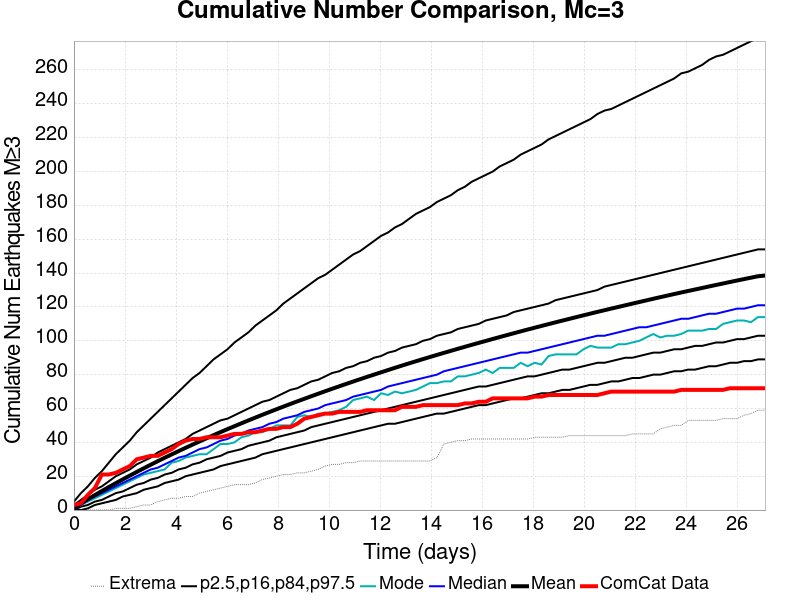
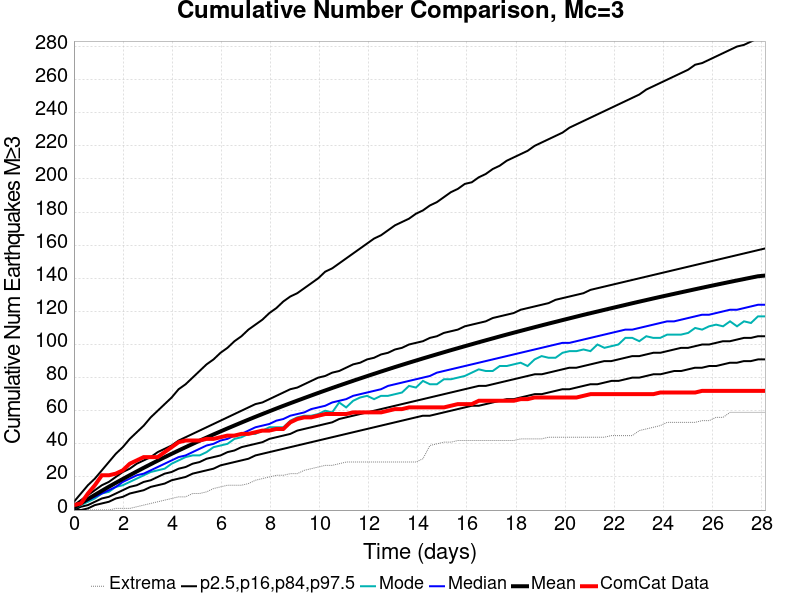
automatic plot and index update from opensha.usc.edu

diff --git a/2019_07_16-ComCatM7p1_ci38457511_11DaysAfter_ShakeMapSurfaces-noSpont-full_td-scale1.14/index.html b/2019_07_16-ComCatM7p1_ci38457511_11DaysAfter_ShakeMapSurfaces-noSpont-full_td-scale1.14/index.html
@@ -761,15 +761,15 @@ img {
 <p><em><a href="#table-of-contents">(top)</a></em></p>
 <table>
 <thead>
-<tr><th></th><th>1 Day</th><th>1 Week</th><th>27.1 Day</th></tr>
+<tr><th></th><th>1 Day</th><th>1 Week</th><th>4 Week</th></tr>
 </thead>
 <tbody>
-<tr><td><strong>M≥3</strong></td><td><img src="plots/comcat_compare_mean_1d_m3.png" alt="Map" /></td><td><img src="plots/comcat_compare_mean_1wk_m3.png" alt="Map" /></td><td><img src="plots/comcat_compare_mean_27.1d_m3.png" alt="Map" /></td></tr>
-<tr><td><strong>M≥4</strong></td><td><img src="plots/comcat_compare_mean_1d_m4.png" alt="Map" /></td><td><img src="plots/comcat_compare_mean_1wk_m4.png" alt="Map" /></td><td><img src="plots/comcat_compare_mean_27.1d_m4.png" alt="Map" /></td></tr>
-<tr><td><strong>M≥5</strong></td><td><img src="plots/comcat_compare_mean_1d_m5.png" alt="Map" /></td><td><img src="plots/comcat_compare_mean_1wk_m5.png" alt="Map" /></td><td><img src="plots/comcat_compare_mean_27.1d_m5.png" alt="Map" /></td></tr>
-<tr><td><strong>M≥6</strong></td><td><img src="plots/comcat_compare_mean_1d_m6.png" alt="Map" /></td><td><img src="plots/comcat_compare_mean_1wk_m6.png" alt="Map" /></td><td><img src="plots/comcat_compare_mean_27.1d_m6.png" alt="Map" /></td></tr>
-<tr><td><strong>M≥7</strong></td><td><img src="plots/comcat_compare_mean_1d_m7.png" alt="Map" /></td><td><img src="plots/comcat_compare_mean_1wk_m7.png" alt="Map" /></td><td><img src="plots/comcat_compare_mean_27.1d_m7.png" alt="Map" /></td></tr>
-<tr><td><strong>M≥8</strong></td><td><img src="plots/comcat_compare_mean_1d_m8.png" alt="Map" /></td><td><img src="plots/comcat_compare_mean_1wk_m8.png" alt="Map" /></td><td><img src="plots/comcat_compare_mean_27.1d_m8.png" alt="Map" /></td></tr>
+<tr><td><strong>M≥3</strong></td><td><img src="plots/comcat_compare_mean_1d_m3.png" alt="Map" /></td><td><img src="plots/comcat_compare_mean_1wk_m3.png" alt="Map" /></td><td><img src="plots/comcat_compare_mean_4wk_m3.png" alt="Map" /></td></tr>
+<tr><td><strong>M≥4</strong></td><td><img src="plots/comcat_compare_mean_1d_m4.png" alt="Map" /></td><td><img src="plots/comcat_compare_mean_1wk_m4.png" alt="Map" /></td><td><img src="plots/comcat_compare_mean_4wk_m4.png" alt="Map" /></td></tr>
+<tr><td><strong>M≥5</strong></td><td><img src="plots/comcat_compare_mean_1d_m5.png" alt="Map" /></td><td><img src="plots/comcat_compare_mean_1wk_m5.png" alt="Map" /></td><td><img src="plots/comcat_compare_mean_4wk_m5.png" alt="Map" /></td></tr>
+<tr><td><strong>M≥6</strong></td><td><img src="plots/comcat_compare_mean_1d_m6.png" alt="Map" /></td><td><img src="plots/comcat_compare_mean_1wk_m6.png" alt="Map" /></td><td><img src="plots/comcat_compare_mean_4wk_m6.png" alt="Map" /></td></tr>
+<tr><td><strong>M≥7</strong></td><td><img src="plots/comcat_compare_mean_1d_m7.png" alt="Map" /></td><td><img src="plots/comcat_compare_mean_1wk_m7.png" alt="Map" /></td><td><img src="plots/comcat_compare_mean_4wk_m7.png" alt="Map" /></td></tr>
+<tr><td><strong>M≥8</strong></td><td><img src="plots/comcat_compare_mean_1d_m8.png" alt="Map" /></td><td><img src="plots/comcat_compare_mean_1wk_m8.png" alt="Map" /></td><td><img src="plots/comcat_compare_mean_4wk_m8.png" alt="Map" /></td></tr>
 </tbody>
 </table>
 <h3 id="comcat-depth-distribution">ComCat Depth Distribution</h3>

diff --git a/index.html b/index.html
@@ -30,7 +30,7 @@ img {
 <tr><td>2019/07/27</td><td><a href="2019_07_27-ComCatM7p1_ci38457511_21DaysAfter_ShakeMapSurfaces-noSpont-full_td-scale1.14/index.html">ComCat M7.1 (ci38457511), 21 Days After, ShakeMap Surfaces</a></td><td>2019/07/26</td><td>100000</td><td>Done</td><td>2019/08/13</td></tr>
 <tr><td>2019/07/25</td><td><a href="2019_07_25-ComCatM7p1_ci38457511_19p6DaysAfter_ShakeMapSurfaces-noSpont-full_td-scale1.14/index.html">ComCat M7.1 (ci38457511), 19.6 Days After, ShakeMap Surfaces</a></td><td>2019/07/25</td><td>100000</td><td>Done</td><td>2019/08/13</td></tr>
 <tr><td>2019/07/18</td><td><a href="2019_07_18-ComCatM7p1_ci38457511_InvertedSurface_ShakeMapSurface-noSpont-full_td-scale1.14/index.html">ComCat M7.1 (ci38457511), Inverted Surface, ShakeMap Surface</a></td><td>2019/07/05</td><td>100000</td><td>Done</td><td>2019/08/12</td></tr>
-<tr><td>2019/07/16</td><td><a href="2019_07_16-ComCatM7p1_ci38457511_11DaysAfter_ShakeMapSurfaces-noSpont-full_td-scale1.14/index.html">ComCat M7.1 (ci38457511), 11 Days After, ShakeMap Surfaces</a></td><td>2019/07/16</td><td>100000</td><td>Done</td><td>2019/08/12</td></tr>
+<tr><td>2019/07/16</td><td><a href="2019_07_16-ComCatM7p1_ci38457511_11DaysAfter_ShakeMapSurfaces-noSpont-full_td-scale1.14/index.html">ComCat M7.1 (ci38457511), 11 Days After, ShakeMap Surfaces</a></td><td>2019/07/16</td><td>100000</td><td>Done</td><td>2019/08/13</td></tr>
 <tr><td>2019/07/16</td><td><a href="2019_07_16-ComCatM7p1_ci38457511_7DaysAfter_ShakeMapSurfaces-noSpont-full_td-scale1.14/index.html">ComCat M7.1 (ci38457511), 7 Days After, ShakeMap Surfaces</a></td><td>2019/07/12</td><td>100000</td><td>Done</td><td>2019/08/11</td></tr>
 <tr><td>2019/07/16</td><td><a href="2019_07_16-ComCatM7p1_ci38457511_ShakeMapSurfaces-noSpont-full_td-scale1.14/index.html">ComCat M7.1 (ci38457511), ShakeMap Surfaces</a></td><td>2019/07/05</td><td>100000</td><td>Done</td><td>2019/08/12</td></tr>
 <tr><td>2019/07/12</td><td><a href="2019_07_12-ComCatM7p1_ci38457511_7DaysAfter_FiniteSurface-noSpont-full_td-scale1.14/index.html">ComCat M7.1 (ci38457511), 7 Days After, Finite Surface</a></td><td>2019/07/12</td><td>100000</td><td>Done</td><td>2019/08/11</td></tr>

diff --git a/2019_07_16-ComCatM7p1_ci38457511_11DaysAfter_ShakeMapSurfaces-noSpont-full_td-scale1.14/README.md b/2019_07_16-ComCatM7p1_ci38457511_11DaysAfter_ShakeMapSurfaces-noSpont-full_td-scale1.14/README.md
@@ -703,14 +703,14 @@ These plots compare simulated sequences with data from ComCat. All plots only co
 ### ComCat Mean Spatial Distribution
 *[(top)](#table-of-contents)*
 
-|  | 1 Day | 1 Week | 27.1 Day |
+|  | 1 Day | 1 Week | 4 Week |
 |-----|-----|-----|-----|
-| **M≥3** | ![Map](plots/comcat_compare_mean_1d_m3.png) | ![Map](plots/comcat_compare_mean_1wk_m3.png) | ![Map](plots/comcat_compare_mean_27.1d_m3.png) |
-| **M≥4** | ![Map](plots/comcat_compare_mean_1d_m4.png) | ![Map](plots/comcat_compare_mean_1wk_m4.png) | ![Map](plots/comcat_compare_mean_27.1d_m4.png) |
-| **M≥5** | ![Map](plots/comcat_compare_mean_1d_m5.png) | ![Map](plots/comcat_compare_mean_1wk_m5.png) | ![Map](plots/comcat_compare_mean_27.1d_m5.png) |
-| **M≥6** | ![Map](plots/comcat_compare_mean_1d_m6.png) | ![Map](plots/comcat_compare_mean_1wk_m6.png) | ![Map](plots/comcat_compare_mean_27.1d_m6.png) |
-| **M≥7** | ![Map](plots/comcat_compare_mean_1d_m7.png) | ![Map](plots/comcat_compare_mean_1wk_m7.png) | ![Map](plots/comcat_compare_mean_27.1d_m7.png) |
-| **M≥8** | ![Map](plots/comcat_compare_mean_1d_m8.png) | ![Map](plots/comcat_compare_mean_1wk_m8.png) | ![Map](plots/comcat_compare_mean_27.1d_m8.png) |
+| **M≥3** | ![Map](plots/comcat_compare_mean_1d_m3.png) | ![Map](plots/comcat_compare_mean_1wk_m3.png) | ![Map](plots/comcat_compare_mean_4wk_m3.png) |
+| **M≥4** | ![Map](plots/comcat_compare_mean_1d_m4.png) | ![Map](plots/comcat_compare_mean_1wk_m4.png) | ![Map](plots/comcat_compare_mean_4wk_m4.png) |
+| **M≥5** | ![Map](plots/comcat_compare_mean_1d_m5.png) | ![Map](plots/comcat_compare_mean_1wk_m5.png) | ![Map](plots/comcat_compare_mean_4wk_m5.png) |
+| **M≥6** | ![Map](plots/comcat_compare_mean_1d_m6.png) | ![Map](plots/comcat_compare_mean_1wk_m6.png) | ![Map](plots/comcat_compare_mean_4wk_m6.png) |
+| **M≥7** | ![Map](plots/comcat_compare_mean_1d_m7.png) | ![Map](plots/comcat_compare_mean_1wk_m7.png) | ![Map](plots/comcat_compare_mean_4wk_m7.png) |
+| **M≥8** | ![Map](plots/comcat_compare_mean_1d_m8.png) | ![Map](plots/comcat_compare_mean_1wk_m8.png) | ![Map](plots/comcat_compare_mean_4wk_m8.png) |
 
 ### ComCat Depth Distribution
 *[(top)](#table-of-contents)*

diff --git a/README.md b/README.md
@@ -7,7 +7,7 @@
 | 2019/07/27 | [ComCat M7.1 (ci38457511), 21 Days After, ShakeMap Surfaces](2019_07_27-ComCatM7p1_ci38457511_21DaysAfter_ShakeMapSurfaces-noSpont-full_td-scale1.14/README.md) | 2019/07/26 | 100000 | Done | 2019/08/13 |
 | 2019/07/25 | [ComCat M7.1 (ci38457511), 19.6 Days After, ShakeMap Surfaces](2019_07_25-ComCatM7p1_ci38457511_19p6DaysAfter_ShakeMapSurfaces-noSpont-full_td-scale1.14/README.md) | 2019/07/25 | 100000 | Done | 2019/08/13 |
 | 2019/07/18 | [ComCat M7.1 (ci38457511), Inverted Surface, ShakeMap Surface](2019_07_18-ComCatM7p1_ci38457511_InvertedSurface_ShakeMapSurface-noSpont-full_td-scale1.14/README.md) | 2019/07/05 | 100000 | Done | 2019/08/12 |
-| 2019/07/16 | [ComCat M7.1 (ci38457511), 11 Days After, ShakeMap Surfaces](2019_07_16-ComCatM7p1_ci38457511_11DaysAfter_ShakeMapSurfaces-noSpont-full_td-scale1.14/README.md) | 2019/07/16 | 100000 | Done | 2019/08/12 |
+| 2019/07/16 | [ComCat M7.1 (ci38457511), 11 Days After, ShakeMap Surfaces](2019_07_16-ComCatM7p1_ci38457511_11DaysAfter_ShakeMapSurfaces-noSpont-full_td-scale1.14/README.md) | 2019/07/16 | 100000 | Done | 2019/08/13 |
 | 2019/07/16 | [ComCat M7.1 (ci38457511), 7 Days After, ShakeMap Surfaces](2019_07_16-ComCatM7p1_ci38457511_7DaysAfter_ShakeMapSurfaces-noSpont-full_td-scale1.14/README.md) | 2019/07/12 | 100000 | Done | 2019/08/11 |
 | 2019/07/16 | [ComCat M7.1 (ci38457511), ShakeMap Surfaces](2019_07_16-ComCatM7p1_ci38457511_ShakeMapSurfaces-noSpont-full_td-scale1.14/README.md) | 2019/07/05 | 100000 | Done | 2019/08/12 |
 | 2019/07/12 | [ComCat M7.1 (ci38457511), 7 Days After, Finite Surface](2019_07_12-ComCatM7p1_ci38457511_7DaysAfter_FiniteSurface-noSpont-full_td-scale1.14/README.md) | 2019/07/12 | 100000 | Done | 2019/08/11 |
